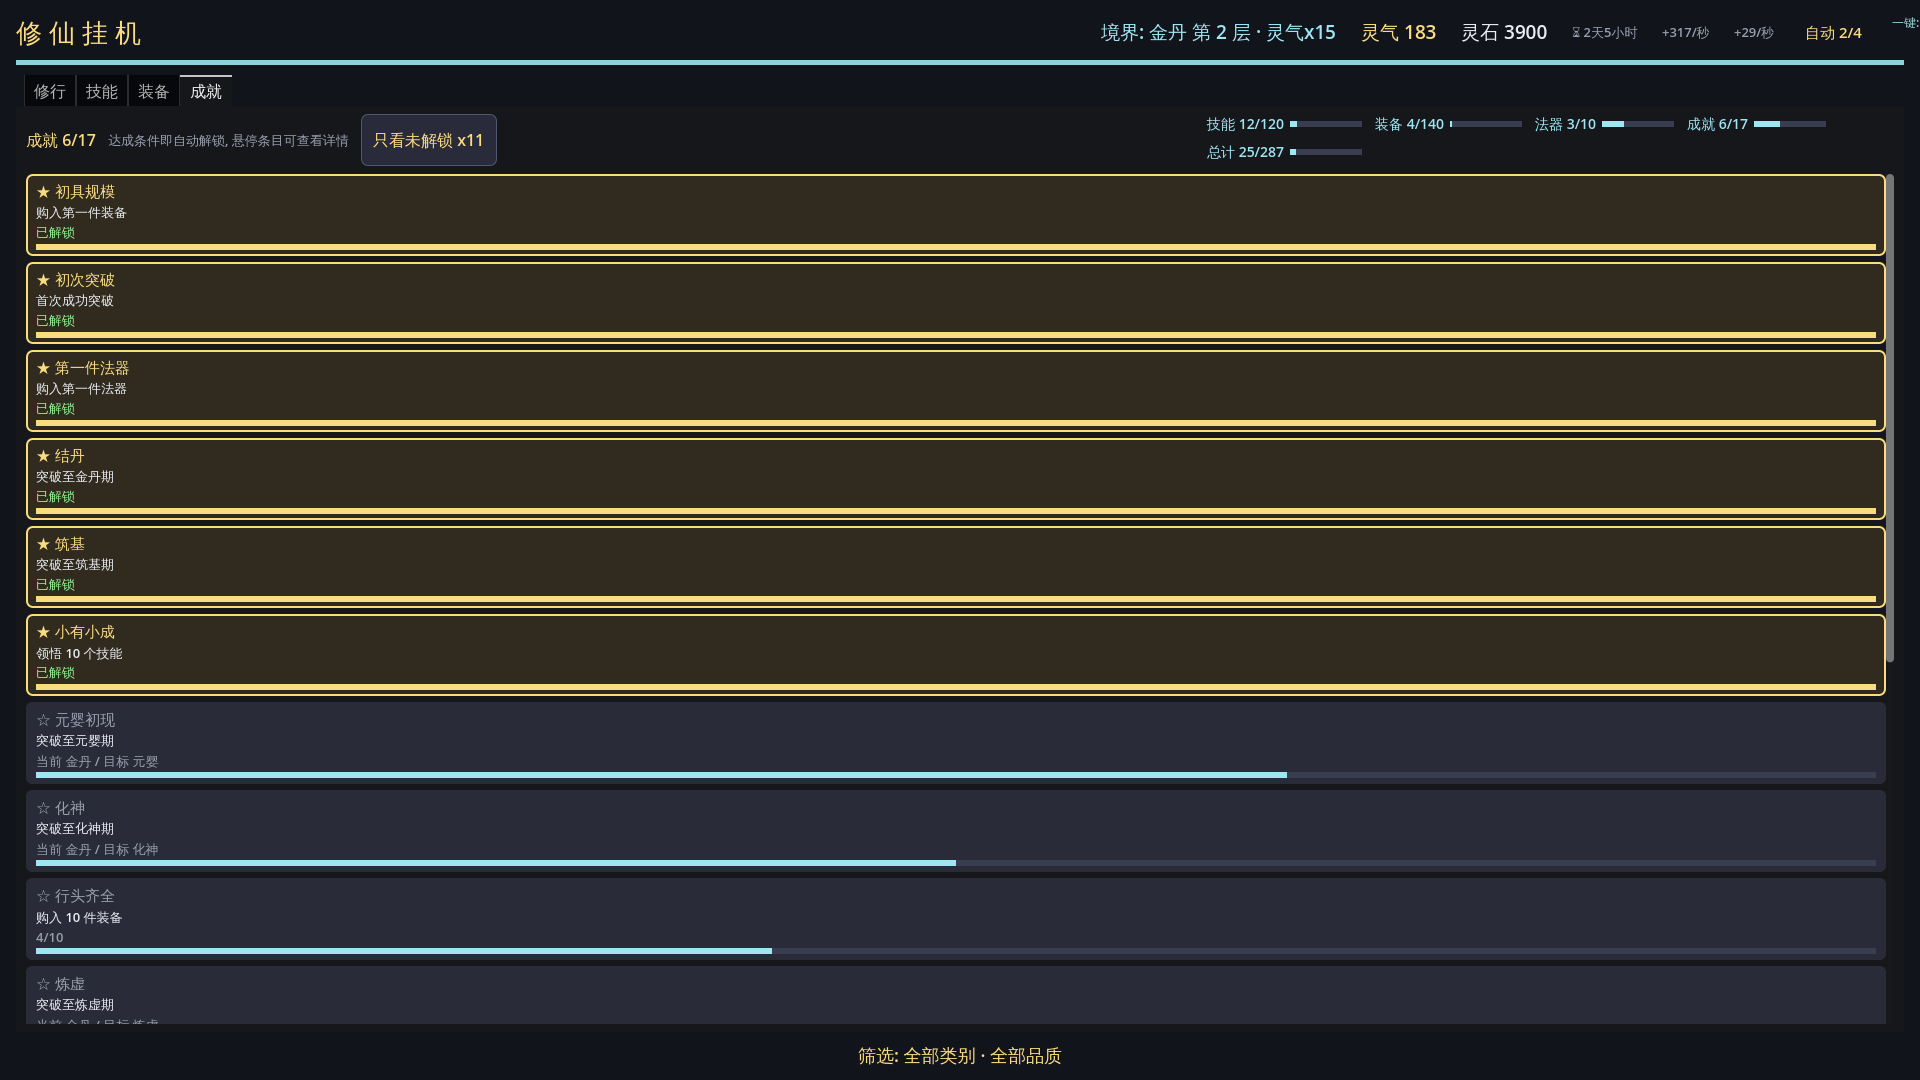
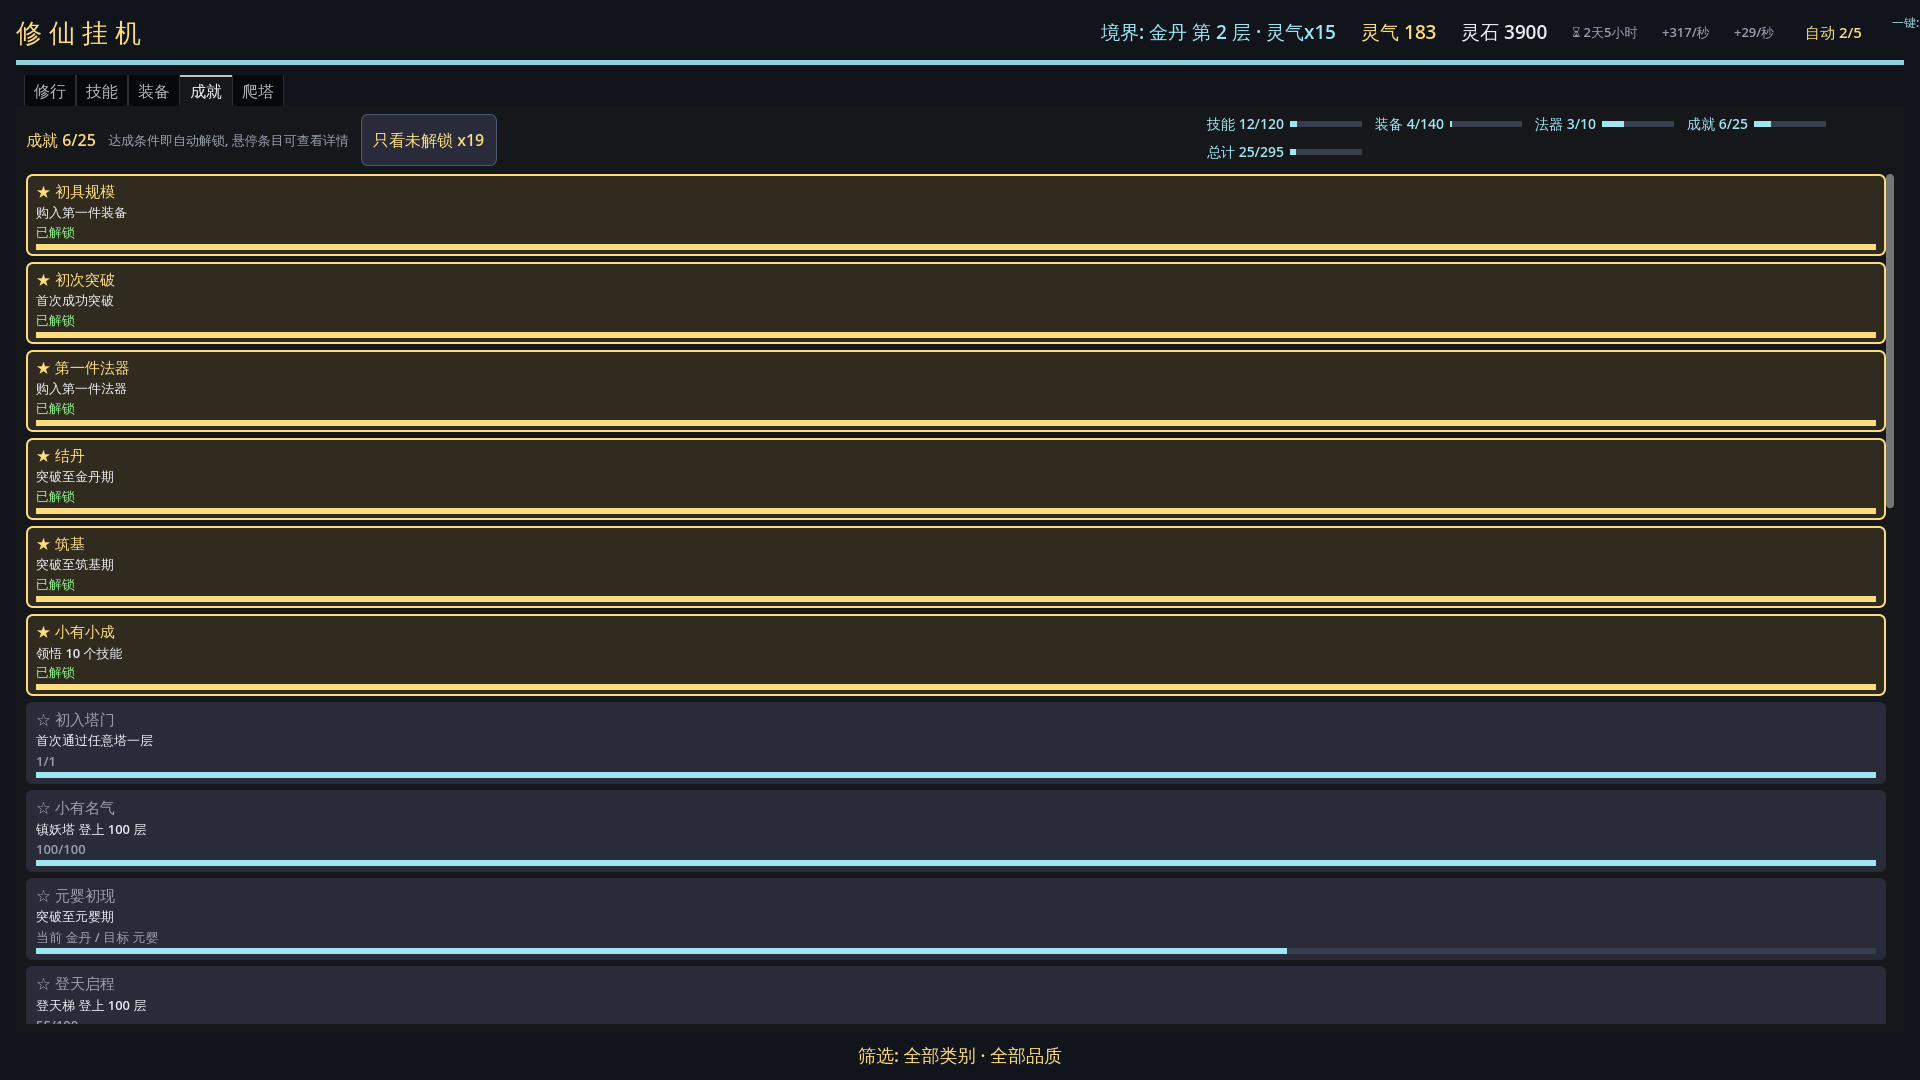
feat(M5-4): 镇妖塔通关态 — 称号+一次性大奖(灵石100万+永久atk/def+15%)+顶栏称号徽标+商店截图第5张
- game_data.gd: 首通1000层Boss触发一次性大奖(tower_clear_reward_got防守塔重复发放),
  clear_buff_mult()通关永久增益接入player_atk/def(乘算独立项), tower_clear_title/reward_text/
  状态行含称号, 存档字段往返+旧档缺字段默认未发放
- main.gd: 顶栏金色圆角称号徽标(通关后恒显,与自动/挂机徽标同父同风格,变化才刷显隐),
  点击直达爬塔页tab4+镇妖塔卡片金边高亮1.2s(复用法器区/突破区高亮口径),
  挑战胜利底部消息追加通关大奖文案
- store_shots.gd: 新增第5张05_tower爬塔页截图(演示档镇妖塔140/1000+登天梯最高55)
- selftest +12项=8999项(大奖/标记/增益/守塔幂等/称号/文案/状态行/存档往返/旧档兜底)
- ui_test +26项=2020项(徽标显隐/tooltip/点击直达/未通关不发放/首通发放/守塔幂等/状态行称号);
  顺带修ui_test既有存档残留污染(_ready防御性重置漏爬塔状态致成就/收集段断言泄漏)
- PROJECT_PLAN勾选M5-4, README/store/README补5张截图与计数
验证: headless冒烟0报错, selftest 8999项, stress 613项, ui_test 2020项连续3轮全过

diff --git a/README.md b/README.md
@@ -60,9 +60,9 @@ PROJECT_PLAN.md          # 项目计划
 
 ```bash
 ~/bin/godot --headless --path .            # 无头冒烟 (应无报错, 会一直挂机运行)
-~/bin/godot --headless --path . -s res://scripts/selftest.gd   # 全流程自测 (学习/购买/穿戴/冷却/存读档/倍率/数值曲线/成就/飞升后道行/装备/技能浮动灵气速率增量/神通爆发预览/一键神通/神通冷却完毕就绪事件/神通冷却进度比例/突破成功率tooltip预期成本/突破失败浮动预期成本/突破成功浮动新境界成功率/离线收益启动金色浮动/自动突破/自动购置/自动施展/自动领悟/自动系列状态汇总/自动系列开关启动提示/顶栏自动系列状态徽标/顶栏自动徽标点击直达/顶栏一键系列状态汇总徽标/一键汇总徽标段悬浮明细/挂机时长顶栏常显/主资源速率顶栏常显/灵石速率顶栏常显/下一目标渐变进度条/挂机时长悬停离线收益预估/自动购置按钮tooltip动态段/自动突破按钮tooltip动态段/自动施展自动领悟按钮tooltip动态段/顶栏主资源行悬停下一目标tooltip/一键挂机/一键挂机按钮tooltip动态段/顶栏挂机状态徽标点击直达/成就页只看未解锁筛选/M5-1爬塔数据层(18特性/145怪物/镇妖塔1000层表), 8882 项, 退出码 0=通过)
+~/bin/godot --headless --path . -s res://scripts/selftest.gd   # 全流程自测 (学习/购买/穿戴/冷却/存读档/倍率/数值曲线/成就/飞升后道行/装备/技能浮动灵气速率增量/神通爆发预览/一键神通/神通冷却完毕就绪事件/神通冷却进度比例/突破成功率tooltip预期成本/突破失败浮动预期成本/突破成功浮动新境界成功率/离线收益启动金色浮动/自动突破/自动购置/自动施展/自动领悟/自动系列状态汇总/自动系列开关启动提示/顶栏自动系列状态徽标/顶栏自动徽标点击直达/顶栏一键系列状态汇总徽标/一键汇总徽标段悬浮明细/挂机时长顶栏常显/主资源速率顶栏常显/灵石速率顶栏常显/下一目标渐变进度条/挂机时长悬停离线收益预估/自动购置按钮tooltip动态段/自动突破按钮tooltip动态段/自动施展自动领悟按钮tooltip动态段/顶栏主资源行悬停下一目标tooltip/一键挂机/一键挂机按钮tooltip动态段/顶栏挂机状态徽标点击直达/成就页只看未解锁筛选/M5-4镇妖塔通关态(称号+灵石100万+永久atk/def+15%增益, 守塔模式幂等/顶栏称号徽标/存档旧档兜底)/M5-1爬塔数据层(18特性/145怪物/镇妖塔1000层表), 8999 项, 退出码 0=通过)
 ~/bin/godot --headless --path . -s res://scripts/stress_test.gd  # 数值曲线压力测试 (全境界/全品质梯度/解锁门槛一致性/后期溢出检查, 613 项, CI 可跑, 退出码 0=通过)
-~/bin/godot --headless --path . res://scenes/ui_test.tscn  # UI 断言 (成就进度条/收集条/品质色/一键系列/顶栏灵石可购进度/灵石行内联下一件可购/法器属性构成/装备/技能浮动灵气速率增量/神通爆发预览/单个神通施展浮动/一键神通/神通冷却完毕就绪浮动/神通冷却进度条/神通冷却完毕收口动画+按钮微光/一键施展浮动爆发总量/单个神通施展浮动爆发总量/冷却完毕就绪浮动爆发总量/突破成功率tooltip预期成本/突破失败浮动预期成本/突破成功浮动新境界成功率/离线收益启动金色浮动/自动突破/自动购置/自动施展/自动领悟/自动系列状态汇总/自动系列汇总行点击直达/自动系列开关启动提示/顶栏自动系列状态徽标/顶栏自动徽标点击直达/顶栏一键系列状态汇总徽标/一键汇总徽标段悬浮明细/挂机时长顶栏常显/主资源速率顶栏常显/灵石速率顶栏常显/下一目标渐变进度条/顶栏进度条点击直达/挂机时长悬停离线收益预估/自动购置按钮tooltip动态段/自动突破按钮tooltip动态段/自动施展自动领悟按钮tooltip动态段/顶栏主资源行悬停下一目标tooltip/一键挂机/一键挂机按钮tooltip动态段/顶栏挂机状态徽标点击直达/成就页只看未解锁筛选, scene 模式带 autoload, 1941 项, 退出码 0=通过)
+~/bin/godot --headless --path . res://scenes/ui_test.tscn  # UI 断言 (成就进度条/收集条/品质色/一键系列/顶栏灵石可购进度/灵石行内联下一件可购/法器属性构成/装备/技能浮动灵气速率增量/神通爆发预览/单个神通施展浮动/一键神通/神通冷却完毕就绪浮动/神通冷却进度条/神通冷却完毕收口动画+按钮微光/一键施展浮动爆发总量/单个神通施展浮动爆发总量/冷却完毕就绪浮动爆发总量/突破成功率tooltip预期成本/突破失败浮动预期成本/突破成功浮动新境界成功率/离线收益启动金色浮动/自动突破/自动购置/自动施展/自动领悟/自动系列状态汇总/自动系列汇总行点击直达/自动系列开关启动提示/顶栏自动系列状态徽标/顶栏自动徽标点击直达/顶栏一键系列状态汇总徽标/一键汇总徽标段悬浮明细/挂机时长顶栏常显/主资源速率顶栏常显/灵石速率顶栏常显/下一目标渐变进度条/顶栏进度条点击直达/挂机时长悬停离线收益预估/自动购置按钮tooltip动态段/自动突破按钮tooltip动态段/自动施展自动领悟按钮tooltip动态段/顶栏主资源行悬停下一目标tooltip/一键挂机/一键挂机按钮tooltip动态段/顶栏挂机状态徽标点击直达/成就页只看未解锁筛选/M5-4镇妖塔通关态(称号徽标显隐/tooltip/点击直达爬塔页tab4+镇妖塔卡片金边高亮/未通关不发放/首通发放灵石大奖/守塔幂等/状态行称号), scene 模式带 autoload, 2020 项, 退出码 0=通过)
 ```
 
 ## 导出 (打包)

diff --git a/PROJECT_PLAN.md b/PROJECT_PLAN.md
@@ -117,7 +117,7 @@
 - [x] M5-1：`gen_data.py` 新增 `tower_monsters.json`（镇妖塔 1000 层全表：名字/精英/Boss 标记/数值公式落表）+ 校验（1000 层唯一名、Boss 层正确、数值单调）（同批产出 `monsters.json` 145 怪物 [120 种 6 大类×20×tier1~4 + 25 Boss [20 小/4 主题/1 最终 镇妖塔主]] 与 `monster_traits.json` 18 特性 [组/倍率/说明, M5-2 战斗计算直接消费]; 独立固定种子 20260910 确定性; gen_data 内置断言: 145 名唯一/120+25 构成/Boss 层 50·100·...·1000 (主题占位 100/250/500/750, 最终 1000, 5 个小 Boss 留作登天梯里程碑池)/每特性≥3 种怪物/Boss=1 强化+1 奖励特殊/tier 每档 30/精英 80 层 [每 10 层非 Boss]/1000 层名唯一/基础数值严格单调/落表 hp·atk·def=基础×结构×偏向 恒等/奖励倍率口径 [Boss x5 精英 x2]; selftest 新增 M5-1 段 7796 项 = 8882 项, stress 613 + 主场景冒烟 0 报错回归全过）
 - [x] M5-2：`game_data.gd` 玩家 atk/def 汇总（功法/装备/法器新增 atk/def 属性池，旧数据 0 兜底）+ 战斗判定接口 `try_tower_challenge(tower)` + 奖励结算 + 存档字段 + 旧档兼容（实现: 功法 atk/def 独立 属性池 [不占 主 效果 循环, 旧 功法 效果 分配 不 变] / 装备 atk/def 部位 攻防 偏向 / 法器 atk/def 池; 玩家 战力 = 2.0 x 40^进度 x (1+功法+装备+法器 各 池), 进度=境界索引[未飞升]/真仙9+道行8[道祖]; 战斗 即时 判定 玩家 atk >= 怪 atk x 0.85, 剧毒 跨场 debuff x0.85 持续 2 场; 镇妖塔 1000 层通关态 + 守塔 模式, 登天梯 无 上限 怪物种 轮转 + 里程碑 Boss + 每日首胜 奖励; 存档 7 字段 往返 + 旧档 默认 兜底; 8 爬塔 成就 tower_100/500/clear + endless_100/500/1000/5000 + first_tower; selftest 新增 M5-2 段 79 项 = 8961 项, stress 613 + ui_test 1989 + 主场景 冒烟 0 报错 回归 全过）
 - [x] M5-3：爬塔 Tab UI（双塔卡片/怪物卡/战力对比/挑战+自动开关）+ 新成就 8 项 + 自测覆盖（胜负判定边界/奖励/断点/旧档/1000 层通关态）（实现: 爬塔 Tab 第 5 页 = 双塔入口卡片 [镇妖塔 N/1000 进度条/登天梯 第 N 层·最高纪录] + 怪物卡 [精英/Boss 标记+特性 tooltip] + 战力对比 [玩家有效 ATK vs 怪 ATK x0.85, 胜绿败红] + 挑战按钮 [立即结算一次] + 自动爬塔开关 [第 5 开关, 一键挂机 4→5 体系/状态汇总行 5 段/顶栏徽标 自动 N/5 全纳入]; GameData auto_tower [存档持久化, 旧档缺字段默认关] + _try_auto_tower [每帧双塔各至多 1 次, 胜推进/败停留 无热循环, 通关态守塔模式恒打 1000 层 Boss]; 8 爬塔成就 M5-2 已交付 [tower_100/500/clear + endless_100/500/1000/5000 + first_tower]; 自测 M5-3 段 [胜负边界/灵石奖励/剧毒 -15% 联动/1000 层通关态守塔/旧档 auto_tower 默认关] + 收尾归零落盘 防 塔 态 污染 ui_test 成就 断言; parse 0 报错 / selftest 8987 项全过 / ui_test 1994 项全过）
-- [ ] M5-4：镇妖塔通关态（称号/大奖/守塔模式）+ 登天梯每日首胜 + 商店截图第 5 张
+- [x] M5-4：镇妖塔通关态（称号/大奖/守塔模式）+ 登天梯每日首胜 + 商店截图第 5 张（实现: 首通 1000 层 Boss 触发 一次性 大奖 = 称号「镇妖塔·通关者」+ 灵石 100 万 + 永久 atk/def +15% [clear_buff_mult 乘算 独立 项 接入 player_atk/def], tower_clear_reward_got 标记 防 守塔 模式 反复 打 1000 层 Boss 重复 发放 [幂等]; 称号 判定/成就 tower_clear 展示 同源 tower_fixed_clear [M5-2 已交付 守塔 模式 + 每日首胜]; 顶栏 金色 圆角 称号 徽标 通关后 恒显 [flat Button 手型 悬停金边, 与 自动/挂机 徽标 同父 同风格, 变化才刷 显隐] + 点击 直达 爬塔页 tab4 + 镇妖塔 卡片 金边高亮 1.2s [复用 法器区/突破区 高亮 口径 重入 kill 旧 tween]; 挑战 胜利 底部消息 追加 通关大奖 文案 [tower_clear_reward_text], 爬塔 状态行 含 称号; 存档 tower_clear_reward_got 往返 + 旧档缺字段 默认 未发放 [首通 时 正常 发放]; 商店 截图 第 5 张 05_tower.png [爬塔页 双塔卡片/怪物卡/战力对比/自动爬塔, 演示档 镇妖塔 140/1000+登天梯 最高 55 金丹 战力, Xvfb 真实 渲染 5 张 重跑 提交 store/shots/]; selftest +12 项 = 8999 项 [大奖/标记/增益/守塔幂等/称号/文案/状态行/存档往返/旧档兜底], ui_test +26 项 = 2020 项 [徽标显隐/tooltip/点击直达 tab4+卡片金边/未通关不发放/首通发放/守塔幂等/状态行称号/收尾恢复; 顺带修 ui_test 既有 存档 残留 污染: autoload 启动 在 _ready 删档 前 已 load_game 读 残留档, _ready 防御性 重置 漏 爬塔 状态 致 成就段/收集段 断言 看到 非零 塔 进度 泄漏 — 现 补 塔 状态 归零 重置 [同 打磨-71/72 口径], suite 连续 3 轮 全过 确定性]])
 
 ## 新特性：M6 DIY 装备（背包乱斗式，2026-09-10 定稿）
 

diff --git a/store/README.md b/store/README.md
@@ -26,9 +26,13 @@ DISPLAY=:110 ~/bin/godot --path . res://scenes/store_shots.tscn
 | `shots/02_skills.png` | 技能页：筛选 + 已学技能金框高亮 + 总加成汇总 |
 | `shots/03_equipment.png` | 装备页：5 部位槽位 + 部位筛选 + 购买/穿戴 |
 | `shots/04_achievements.png` | 成就页：已解锁成就金框 + 进度提示 |
+| `shots/05_tower.png` | 爬塔页（M5-4）：双塔卡片 + 怪物卡 + 战力对比 + 自动爬塔开关 |
 
 截图为「当前游戏版本」的真实渲染（gl_compatibility），上架前重新执行一次即可
 拿到最新素材；`shots/` 已提交仓库，diff 可查。
+
+> M5-4 起产出 5 张（新增 `05_tower.png` 爬塔页）。演示档塔进度：镇妖塔 140/1000 +
+> 登天梯 最高 55（金丹 战力，双塔卡片均含 进度条/怪物卡/战力对比「胜」绿字）。
 
 ## 商店页文案（见 store_page.md）
 
